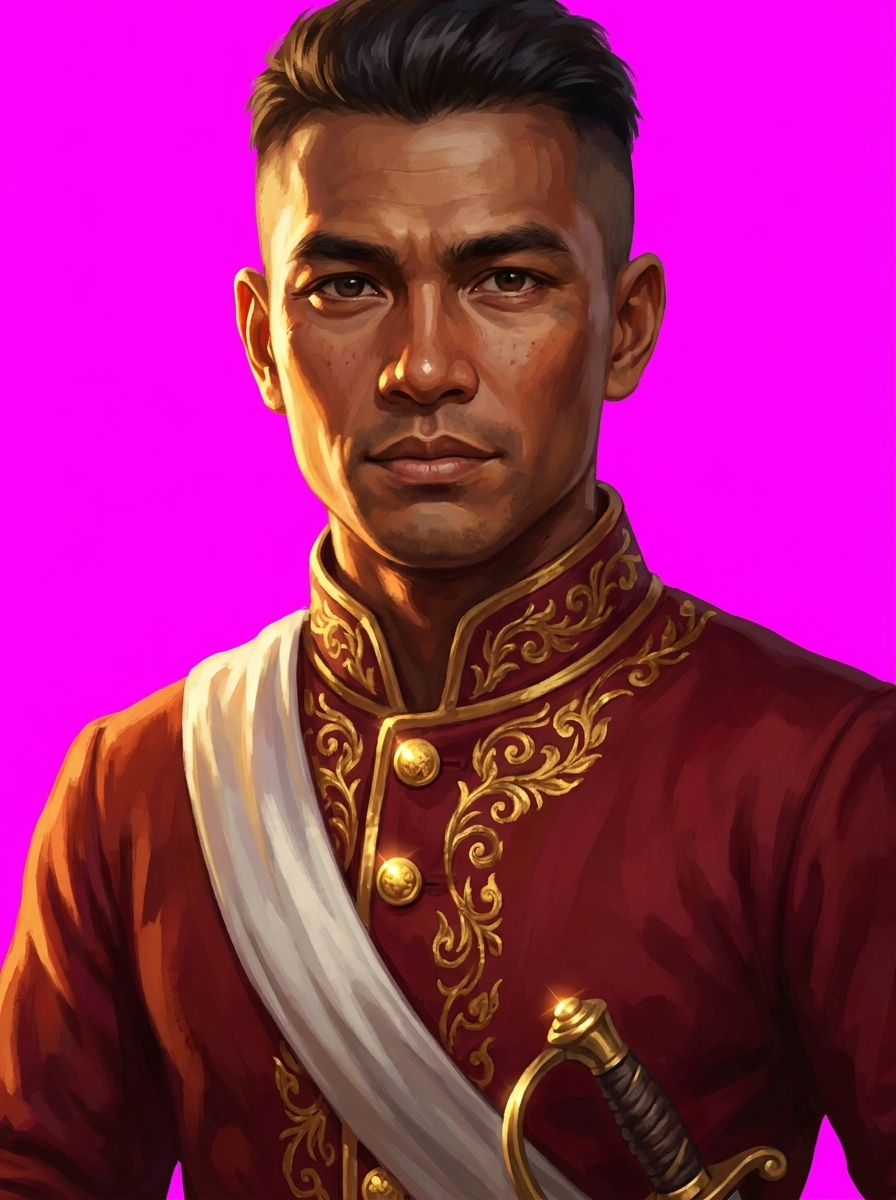
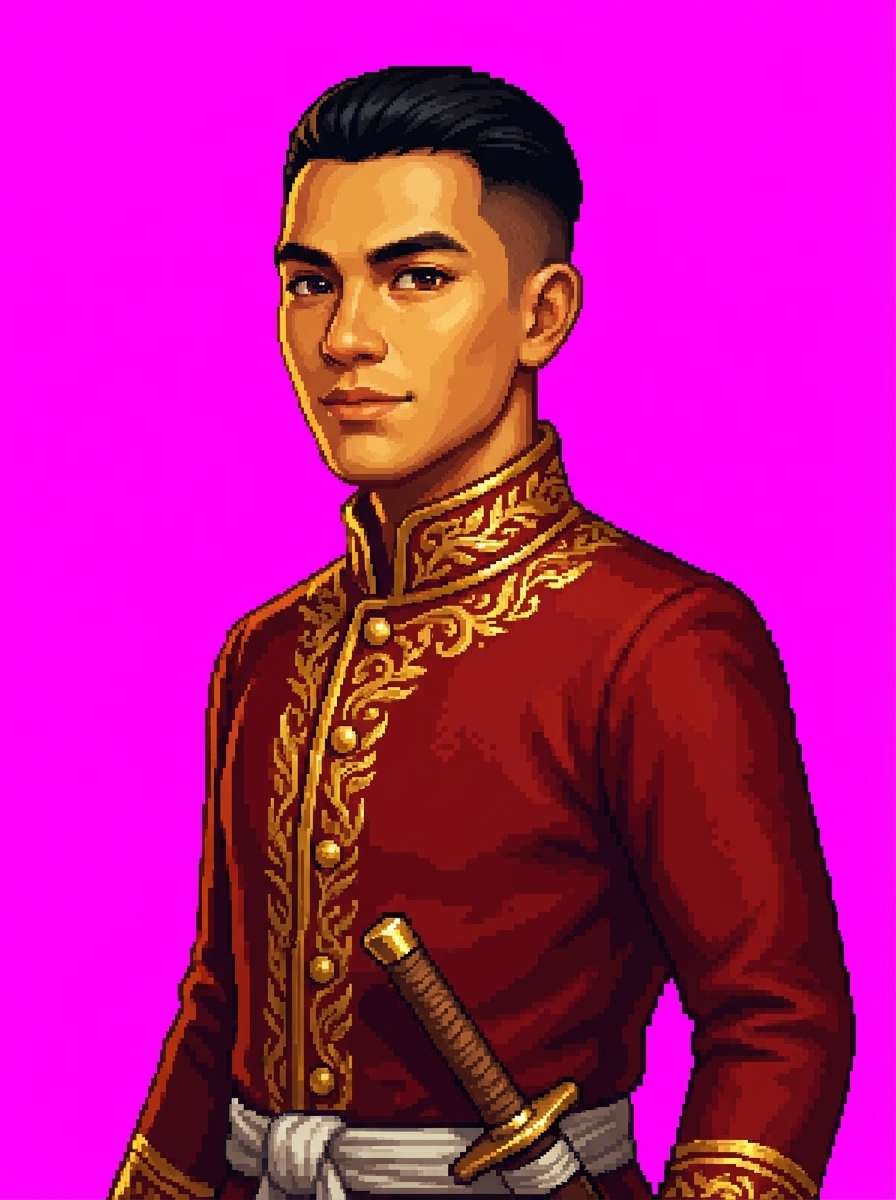
Rebuild the junk with period detail; match the captain's portrait to his sprite
The junk gains:
- planked deck, rails, painted planking with wales and a wet waterline band
- a stern castle with lattice windows and an arched roof, and the rudder and tiller
- a thatched deck shelter, cargo jars and crates, a windlass and a wooden anchor
- cambered lug sails of matting with fanned battens and sheet lines
- soft foam at the waterline

The captain's portrait is regenerated with lighter skin like his sprite, gold
embroidery on the collar and front, and a straight daab hilt. The portrait
cut-out also pulls magenta spill at the edges back toward neutral.

Claude-Session: https://claude.ai/code/session_01GzwHrQ8CtrcQje8D54RJ7B

diff --git a/dist/engine/courtyard-scene.js b/dist/engine/courtyard-scene.js
@@ -101,41 +101,93 @@ export async function createCourtyard(scene){
  // Mooring platform and rope bollards.
  for(let i=0;i<22;i++)box(9.4+i*.22,.03,1,.21,.14,3.2,wood);for(const z of[-.45,2.45])box(11.75,-.12,z,4.8,.16,.16,dark);
  for(const x of[10.8,13.8])for(const z of[-.5,2.5]){mesh(new THREE.CylinderGeometry(.1,.13,1,8),dark,x,.18,z);}
- // The captain's junk, moored along the north side of the landing: a flat-transom hull with a raised stern (toward the
- // bank) and a stern castle, painted sides with the bow eye, two masts with battened lug sails of matting, a red pennant,
- // mooring lines to the bollards, a gangway, and Mae Im's jasmine at the bow.
- {const L=8.6,B=2.5,H=1.25,X=15.2,Z=-2.25,Y=-.23,deck=u=>Y+H/2+1.0*(1-u)**3+.45*u*u;
-  const hullGeo=new THREE.BoxGeometry(L,H,B,24,3,6),pos=hullGeo.attributes.position;
-  for(let i=0;i<pos.count;i++){const x=pos.getX(i),y=pos.getY(i),z=pos.getZ(i),u=x/L+.5,t=y/H+.5,beam=.6+.4*Math.sin(Math.PI*Math.min(1,Math.max(0,u*1.04-.02)))**.5;
-   pos.setXYZ(i,x,y+t*(1.0*(1-u)**3+.45*u*u)+(1-t)*.3*(2*u-1)**2,z*beam*(.5+.5*t));}
+ // The captain's junk, moored along the north side of the landing, after Siamese and Chinese trading junks of the 1680s:
+ // a flat-transom hull with sheer and a painted bow eye, rails, a planked deck, a stern castle with an arched roof over
+ // the transom and rudder, a thatched deck shelter, cargo jars, a windlass and wooden anchor, and unstayed masts with
+ // cambered, battened lug sails of matting whose sheets fan down to the stern. Mae Im's jasmine hangs at the bow.
+ {const L=10,B=2.8,H=1.3,X=15.8,Z=-2.4,Y=-.23,sheer=u=>1.05*(1-u)**3+.5*u*u,deck=u=>Y+H/2+sheer(u),at=u=>X-L/2+u*L;
+  const beam=u=>.6+.4*Math.sin(Math.PI*Math.min(1,Math.max(0,u*1.04-.02)))**.5,half=u=>B/2*beam(u);
+  const hullGeo=new THREE.BoxGeometry(L,H,B,30,4,8),pos=hullGeo.attributes.position;
+  for(let i=0;i<pos.count;i++){const x=pos.getX(i),y=pos.getY(i),z=pos.getZ(i),u=x/L+.5,t=y/H+.5;
+   pos.setXYZ(i,x,y+t*sheer(u)+(1-t)*.3*(2*u-1)**2,z*beam(u)*(.5+.5*t));}
   hullGeo.computeVertexNormals();
-  // Side planking: dark hull, red and cream bands under the rail, the painted eye near the bow. The far side is mirrored.
-  const side=document.createElement('canvas');side.width=512;side.height=64;const c=side.getContext('2d');
-  c.fillStyle='#3d2b1d';c.fillRect(0,0,512,64);c.strokeStyle='#2a1d13';c.lineWidth=1;for(let y=16;y<64;y+=6){c.beginPath();c.moveTo(0,y);c.lineTo(512,y);c.stroke();}
-  c.fillStyle='#8f2a1c';c.fillRect(0,0,512,9);c.fillStyle='#e2d4b0';c.fillRect(0,9,512,3);c.fillStyle='#8f2a1c';c.fillRect(0,12,512,2);
-  c.fillStyle='#efe6cc';c.beginPath();c.ellipse(470,24,14,8,0,0,7);c.fill();c.fillStyle='#16110c';c.beginPath();c.arc(474,24,5,0,7);c.fill();
-  const sideTex=new THREE.CanvasTexture(side);sideTex.colorSpace=THREE.SRGBColorSpace;const farTex=sideTex.clone();farTex.wrapS=THREE.RepeatWrapping;farTex.repeat.x=-1;farTex.needsUpdate=true;
-  const red=mat('#8f2a1c'),hull=mesh(hullGeo,[red,red,mat('#8a6a45'),dark,mat('#ffffff',{map:sideTex}),mat('#ffffff',{map:farTex})],X,Y,Z,true);hull.receiveShadow=true;
-  const at=u=>X-L/2+u*L;
-  // Stern castle with an overhanging roof.
-  box(at(.1),deck(.1)+.35,Z,1.5,.9,1.8,red);box(at(.1),deck(.1)+.86,Z,1.8,.12,2.15,dark);box(at(.1)+.76,deck(.1)+.35,Z,.04,.5,.9,mat('#d9b56b'));
-  // Masts (the foremast raked forward) and battened lug sails, shaped longer aft of the mast as on Siamese junks.
-  // Sails of woven matting (ShapeGeometry UVs are in metres, so the weave tiles once per metre), hoisted part-way at the mooring.
-  const mat2=document.createElement('canvas');mat2.width=mat2.height=32;const w2=mat2.getContext('2d');w2.fillStyle='#b98a55';w2.fillRect(0,0,32,32);
-  for(let i=0;i<32;i+=4){w2.fillStyle=i%8?'#a67646':'#c89a62';w2.fillRect(i,0,2,32);w2.fillStyle='#9b6c3f40';w2.fillRect(0,i+1,32,1);}
-  const weave=new THREE.CanvasTexture(mat2);weave.colorSpace=THREE.SRGBColorSpace;weave.wrapS=weave.wrapT=THREE.RepeatWrapping;weave.magFilter=THREE.NearestFilter;
-  const sail=mat('#ffffff',{map:weave,side:THREE.DoubleSide}),rake=new THREE.CylinderGeometry(.06,.1,5.2,8);rake.rotateZ(-.12);
-  mesh(new THREE.CylinderGeometry(.07,.11,7.6,8),dark,at(.55),deck(.55)+3.8,Z);mesh(rake,dark,at(.86)+.3,deck(.86)+2.6,Z);
-  function lug(mx,base,w,h,scale){const g=new THREE.ShapeGeometry(new THREE.Shape([new THREE.Vector2(-w*.72,0),new THREE.Vector2(w*.28,0),new THREE.Vector2(w*.24,h),new THREE.Vector2(-w*.76,h*.84)]));
-   mesh(g,sail,mx,base,Z+.14);for(let k=0;k<=5;k++){const f=k/5;mesh(new THREE.BoxGeometry(w*(1+.04*f)*1.02,.05*scale,.05),dark,mx-w*.24-w*.02*f,base+h*(k<5?f:.92),Z+.17);}}
-  lug(at(.55),deck(.55)+1.7,3.8,3.3,1);lug(at(.86)+.35,deck(.86)+1.3,2.4,2.3,.8);
-  const pennant=new THREE.ShapeGeometry(new THREE.Shape([new THREE.Vector2(0,0),new THREE.Vector2(-1.1,-.18),new THREE.Vector2(0,-.4)]));mesh(pennant,mat('#b3261c',{side:THREE.DoubleSide}),at(.55),deck(.55)+7.6,Z);
-  // Mooring lines from the rail to the landing's bollards, and the gangway down to the planks.
-  const ropeMat=mat('#8d7650'),up=new THREE.Vector3(0,1,0);
-  for(const[a,b]of[[[at(.2),deck(.2)-.1,Z+1],[10.8,.66,-.5]],[[at(.62),deck(.62)-.1,Z+1.15],[13.8,.66,-.5]]]){const A=new THREE.Vector3(...a),Bv=new THREE.Vector3(...b),g=new THREE.CylinderGeometry(.02,.02,A.distanceTo(Bv),5);g.rotateX(Math.PI/2);g.applyMatrix4(new THREE.Matrix4().lookAt(A,Bv,up));const m=A.clone().add(Bv).multiplyScalar(.5);mesh(g,ropeMat,m.x,m.y,m.z);}
-  const plank=new THREE.BoxGeometry(.6,.06,1.05);plank.rotateX(.62);mesh(plank,wood,at(.3),(deck(.3)+.12)/2,-.78);
+  const paint=(w,h,draw)=>{const c=document.createElement('canvas');c.width=w;c.height=h;draw(c.getContext('2d'),w,h);const t=new THREE.CanvasTexture(c);t.colorSpace=THREE.SRGBColorSpace;t.anisotropy=4;return t;};
+  // Sides: tarred planking with butt joints, two wales, red and cream bands under the rail, the bow eye, and a dark,
+  // weedy wet band at the waterline. The far side is mirrored so the eye is at the bow on both.
+  const sideTex=paint(1024,128,(c,w,h)=>{c.fillStyle='#3a2a1c';c.fillRect(0,0,w,h);let r=1685;const rnd=()=>(r=(r*16807)%2147483647)/2147483647;
+   for(let y=24;y<h;y+=9){c.fillStyle='#2a1d13';c.fillRect(0,y,w,1);for(let x=rnd()*120;x<w;x+=90+rnd()*140)c.fillRect(x,y-8,1,8);c.fillStyle=`rgba(${80+rnd()*30},${58+rnd()*20},${36},.18)`;c.fillRect(0,y+1,w,7);}
+   c.fillStyle='#231810';c.fillRect(0,34,w,5);c.fillRect(0,52,w,4);
+   c.fillStyle='#8f2a1c';c.fillRect(0,0,w,15);c.fillStyle='#e2d4b0';c.fillRect(0,15,w,4);c.fillStyle='#8f2a1c';c.fillRect(0,19,w,3);
+   for(let x=20;x<w;x+=46){c.fillStyle='#d9b56b';c.fillRect(x,5,10,5);}
+   c.fillStyle='#1e2418';c.fillRect(0,62,w,7);c.fillStyle='#2f3b25';for(let x=0;x<w;x+=3)c.fillRect(x,58+rnd()*6,2,4);
+   c.fillStyle='#efe6cc';c.beginPath();c.ellipse(952,38,24,13,0,0,7);c.fill();c.fillStyle='#16110c';c.beginPath();c.arc(958,38,8,0,7);c.fill();c.fillStyle='#8f2a1c';c.lineWidth=3;c.strokeStyle='#8f2a1c';c.beginPath();c.ellipse(952,38,26,15,0,0,7);c.stroke();});
+  const farTex=sideTex.clone();farTex.wrapS=THREE.RepeatWrapping;farTex.repeat.x=-1;farTex.needsUpdate=true;
+  // Deck: planks running fore and aft, worn in the middle.
+  const deckTex=paint(512,128,(c,w,h)=>{c.fillStyle='#8a6a45';c.fillRect(0,0,w,h);let r=7;const rnd=()=>(r=(r*16807)%2147483647)/2147483647;
+   for(let y=0;y<h;y+=8){c.fillStyle=`rgba(${120+rnd()*40},${90+rnd()*30},${55+rnd()*20},.5)`;c.fillRect(0,y,w,7);c.fillStyle='#4d3822';c.fillRect(0,y+7,w,1);for(let x=rnd()*80;x<w;x+=60+rnd()*90)c.fillRect(x,y,1,7);}
+   const g=c.createLinearGradient(0,0,0,h);g.addColorStop(0,'rgba(40,28,16,.35)');g.addColorStop(.5,'rgba(255,240,210,.08)');g.addColorStop(1,'rgba(40,28,16,.35)');c.fillStyle=g;c.fillRect(0,0,w,h);});
+  const red=mat('#8f2a1c'),white=mat('#ffffff',{map:sideTex}),transom=paint(64,64,(c)=>{c.fillStyle='#7d2418';c.fillRect(0,0,64,64);c.fillStyle='#d9b56b';c.fillRect(0,8,64,4);c.fillRect(0,50,64,3);c.strokeStyle='#d9b56b';c.lineWidth=2;c.beginPath();c.arc(32,31,11,0,7);c.stroke();c.beginPath();c.arc(32,31,5,0,7);c.stroke();});
+  const hull=mesh(hullGeo,[mat('#ffffff',{map:transom}),red,mat('#ffffff',{map:deckTex}),dark,white,mat('#ffffff',{map:farTex})],X,Y,Z,true);hull.receiveShadow=true;
+  const tube=(pts,r,m,seg=24)=>mesh(new THREE.TubeGeometry(new THREE.CatmullRomCurve3(pts.map(p=>new THREE.Vector3(...p))),seg,r,5),m,0,0,0);
+  const up=new THREE.Vector3(0,1,0);
+  function line(a,b,r,m){const A=new THREE.Vector3(...a),Bv=new THREE.Vector3(...b),g=new THREE.CylinderGeometry(r,r,A.distanceTo(Bv),5);g.rotateX(Math.PI/2);g.applyMatrix4(new THREE.Matrix4().lookAt(A,Bv,up));const m2=A.clone().add(Bv).multiplyScalar(.5);return mesh(g,m,m2.x,m2.y,m2.z);}
+  // Rails along both sides, on turned posts.
+  const railMat=mat('#5a3a22');
+  for(const side of[-1,1]){const pts=[];for(let k=0;k<=16;k++){const u=.03+k*.94/16;pts.push([at(u),deck(u)+.28,Z+side*(half(u)-.05)]);}tube(pts,.035,railMat,40);
+   for(let k=0;k<=16;k+=2){const u=.03+k*.94/16;mesh(new THREE.BoxGeometry(.06,.3,.06),railMat,at(u),deck(u)+.14,Z+side*(half(u)-.05));}}
+  // Stern castle: panelled walls with lattice windows under an arched roof, a railed gallery, the rudder and its tiller.
+  const castleU=.1,cx=at(castleU),cy=deck(castleU),walls=paint(128,64,(c)=>{c.fillStyle='#7d2a1c';c.fillRect(0,0,128,64);c.fillStyle='#d9b56b';c.fillRect(0,0,128,4);c.fillRect(0,60,128,4);
+   for(const x of[14,52,90]){c.fillStyle='#1c130c';c.fillRect(x,18,24,26);c.strokeStyle='#d9b56b';c.lineWidth=2;c.strokeRect(x,18,24,26);c.beginPath();c.moveTo(x+12,18);c.lineTo(x+12,44);c.moveTo(x,31);c.lineTo(x+24,31);c.stroke();}});
+  mesh(new THREE.BoxGeometry(1.7,1,2.1),mat('#ffffff',{map:walls}),cx,cy+.5,Z);
+  const roofTex=paint(64,64,(c)=>{c.fillStyle='#3b2a1a';c.fillRect(0,0,64,64);for(let x=0;x<64;x+=4){c.fillStyle=x%8?'#4a3522':'#2e2014';c.fillRect(x,0,3,64);}});roofTex.wrapS=roofTex.wrapT=THREE.RepeatWrapping;roofTex.repeat.set(4,2);
+  const roof=new THREE.CylinderGeometry(1.25,1.25,2.1,14,1,true,0,Math.PI);roof.rotateZ(Math.PI/2);roof.scale(1,.45,1);mesh(roof,mat('#ffffff',{map:roofTex,side:THREE.DoubleSide}),cx-.05,cy+1,Z);
+  mesh(new THREE.BoxGeometry(2.1,.08,2.5),dark,cx-.05,cy+1.02,Z);
+  const stern=at(0);mesh(new THREE.BoxGeometry(.08,.34,2.1),railMat,stern-.25,deck(0)+.2,Z);
+  const rudder=new THREE.Shape([new THREE.Vector2(0,0),new THREE.Vector2(-1.1,-.2),new THREE.Vector2(-1.2,-1.4),new THREE.Vector2(-.2,-1.5),new THREE.Vector2(0,-1.2)]);
+  const blade=new THREE.ExtrudeGeometry(rudder,{depth:.1,bevelEnabled:false});blade.translate(0,0,-.05);mesh(blade,dark,stern+.35,deck(0)-.1,Z);
+  mesh(new THREE.CylinderGeometry(.08,.08,2.2,6),dark,stern+.2,deck(0)-.2,Z);line([stern+.2,deck(0)+.8,Z],[cx+1.2,cy+.75,Z],.04,dark);
+  // Thatched shelter amidships over the hatch, on four posts.
+  const thatch=paint(64,64,(c)=>{c.fillStyle='#8c6b3a';c.fillRect(0,0,64,64);let r=3;const rnd=()=>(r=(r*16807)%2147483647)/2147483647;for(let i=0;i<260;i++){c.fillStyle=['#a5824a','#6e5230','#b8935a'][i%3];c.fillRect(rnd()*64,rnd()*64,1,4+rnd()*6);}for(let y=0;y<64;y+=10){c.fillStyle='#5c4428';c.fillRect(0,y,64,1);}});thatch.wrapS=thatch.wrapT=THREE.RepeatWrapping;thatch.repeat.set(3,2);
+  const su=.36,sx=at(su),sy=deck(su);const shelter=new THREE.CylinderGeometry(1.05,1.05,2,14,1,true,0,Math.PI);shelter.rotateZ(Math.PI/2);shelter.scale(1,.55,1);mesh(shelter,mat('#ffffff',{map:thatch,side:THREE.DoubleSide}),sx,sy+.95,Z);
+  for(const dx of[-.9,.9])for(const dz of[-.9,.9])mesh(new THREE.CylinderGeometry(.045,.05,1,6),railMat,sx+dx,sy+.5,Z+dz);
+  mesh(new THREE.BoxGeometry(1.5,.18,1.2),mat('#5d4128'),sx,sy+.09,Z);
+  // Cargo: glazed storage jars, lashed crates and a coil of rope.
+  const jarGeo=new THREE.LatheGeometry([[0,0],[.16,0],[.24,.12],[.27,.3],[.22,.48],[.12,.56],[.13,.62],[0,.62]].map(([x,y])=>new THREE.Vector2(x,y)),12),jarMat=mat('#4a3020',{roughness:.35,metalness:.1});
+  for(const[u,dz]of[[.5,-.7],[.53,-.25],[.5,.55],[.68,.7],[.71,.25]])mesh(jarGeo,jarMat,at(u),deck(u),Z+dz);
+  for(const[u,dz,s2]of[[.62,-.75,.5],[.645,-.72,.4],[.74,-.5,.45]])mesh(new THREE.BoxGeometry(s2,s2*.8,s2),mat('#8a6a40'),at(u),deck(u)+s2*.4,Z+dz);
+  const coil=new THREE.TorusGeometry(.22,.07,6,16);coil.rotateX(Math.PI/2);mesh(coil,mat('#8d7650'),at(.8),deck(.8)+.07,Z+.4);
+  // Windlass and wooden anchor at the bow.
+  const wx=at(.93),wy=deck(.93);const drum=new THREE.CylinderGeometry(.14,.14,1.6,10);drum.rotateX(Math.PI/2);mesh(drum,railMat,wx,wy+.35,Z);for(const dz of[-.85,.85])mesh(new THREE.BoxGeometry(.12,.5,.12),railMat,wx,wy+.25,Z+dz);
+  const bow=at(1);mesh(new THREE.BoxGeometry(.1,1.4,.1),dark,bow+.18,deck(1)-.55,Z+1.05);mesh(new THREE.BoxGeometry(.5,.08,.08),dark,bow+.18,deck(1)-1.2,Z+1.05);line([wx,wy+.35,Z+.7],[bow+.18,deck(1)+.15,Z+1.05],.02,mat('#8d7650'));
+  // Unstayed masts (the foremast raked forward).
+  const mainU=.56,foreU=.86;mesh(new THREE.CylinderGeometry(.08,.13,9,8),dark,at(mainU),deck(mainU)+4.5,Z);
+  const fore=new THREE.CylinderGeometry(.07,.11,6,8);fore.rotateZ(-.12);mesh(fore,dark,at(foreU)+.35,deck(foreU)+3,Z);
+  // Lug sails: a curved sheet of matting between a boom and a yard that peaks aft, the leech bellied outward, and
+  // bamboo battens across it; each second batten's sheet runs down to a block on the stern deck.
+  const weave=paint(64,256,(c,w,h)=>{c.fillStyle='#b98a55';c.fillRect(0,0,w,h);let r=11;const rnd=()=>(r=(r*16807)%2147483647)/2147483647;
+   for(let x=0;x<w;x+=4){c.fillStyle=x%8?'#a8784a':'#c79a62';c.fillRect(x,0,2,h);}for(let y=0;y<h;y+=3){c.fillStyle='rgba(90,60,30,.18)';c.fillRect(0,y,w,1);}
+   for(let k=0;k<7;k++){const y0=h*k/7,g=c.createLinearGradient(0,y0,0,y0+h/7);g.addColorStop(0,'rgba(255,235,190,.16)');g.addColorStop(1,'rgba(50,30,15,.3)');c.fillStyle=g;c.fillRect(0,y0,w,h/7);}
+   for(let i=0;i<14;i++){c.fillStyle=`rgba(70,45,25,${.08+rnd()*.12})`;c.fillRect(rnd()*w,rnd()*h,6+rnd()*14,8+rnd()*20);}});
+  const sailMat=mat('#ffffff',{map:weave,side:THREE.DoubleSide}),spar=mat('#6b5a3a'),sheetMat=mat('#8d7650');
+  function lug(mx,foot,w,h,panels,belly){const F=[w*.28,0],A=[-w*.72,h*.06],Hd=[w*.2,h*.84],P=[-w*.8,h];
+   const point=(u,v)=>{const rx=F[0]+(Hd[0]-F[0])*v,ry=F[1]+(Hd[1]-F[1])*v,lx=A[0]+(P[0]-A[0])*v-w*.12*Math.sin(Math.PI*v),ly=A[1]+(P[1]-A[1])*v;
+    return[mx+rx+(lx-rx)*u,foot+ry+(ly-ry)*u,Z+.16+belly*Math.sin(Math.PI*u)*(.55+.45*Math.sin(Math.PI*v))];};
+   const N=12,M=14,g=new THREE.BufferGeometry(),p=[],uv=[],idx=[];for(let j=0;j<=M;j++)for(let i=0;i<=N;i++){p.push(...point(i/N,j/M));uv.push(i/N,j/M);}
+   for(let j=0;j<M;j++)for(let i=0;i<N;i++){const a2=j*(N+1)+i,b2=a2+1,c2=a2+N+1,d2=c2+1;idx.push(a2,b2,d2,a2,d2,c2);}
+   g.setIndex(idx);g.setAttribute('position',new THREE.Float32BufferAttribute(p,3));g.setAttribute('uv',new THREE.Float32BufferAttribute(uv,2));g.computeVertexNormals();mesh(g,sailMat,0,0,0);
+   for(let k=0;k<=panels;k++){const v=k/panels,pts=[];for(let i=0;i<=6;i++){const q=point(i/6,v);pts.push([q[0],q[1],q[2]+.03]);}tube(pts,k===0||k===panels?.06:.028,k===0||k===panels?spar:dark,12);
+    if(k%2===0&&k<panels){const end=point(1,v);line(end,[at(.2),deck(.2)+.35,Z+.3],.012,sheetMat);}}
+   const head=point(0,1);line([mx,head[1]+.5,Z+.02],[head[0],head[1],head[2]],.02,sheetMat);}
+  lug(at(mainU),deck(mainU)+1.6,4.6,4.2,7,.35);lug(at(foreU)+.45,deck(foreU)+1.3,3,2.9,5,.25);
+  const pennant=new THREE.ShapeGeometry(new THREE.Shape([new THREE.Vector2(0,0),new THREE.Vector2(-1.3,-.2),new THREE.Vector2(0,-.45)]));mesh(pennant,mat('#b3261c',{side:THREE.DoubleSide}),at(mainU),deck(mainU)+9,Z);
+  // Mooring lines to the landing's bollards, and the gangway down to the planks.
+  const ropeMat=mat('#8d7650');for(const[u,bx]of[[.12,10.8],[.4,13.8]])line([at(u),deck(u)+.25,Z+half(u)],[bx,.66,-.5],.022,ropeMat);
+  const gu=(13-at(0))/L,gy=deck(gu),gz=Z+half(gu),len=Math.hypot(gz- -.35,gy-.12),plank=new THREE.BoxGeometry(.62,.06,len);plank.rotateX(Math.atan2(gy-.12,gz- -.35));mesh(plank,wood,13,(gy+.12)/2,(gz-.35)/2);
   // Jasmine for Mae Ya Nang, the boat spirit, tied at the bow.
-  const garland=new THREE.TorusGeometry(.2,.05,6,14);garland.rotateY(Math.PI/2);mesh(garland,mat('#f4f0e2',{emissive:'#403c30'}),at(1)-.08,deck(1)-.12,Z);
+  const garland=new THREE.TorusGeometry(.2,.05,6,14);garland.rotateY(Math.PI/2);mesh(garland,mat('#f4f0e2',{emissive:'#403c30'}),bow-.05,deck(1)+.2,Z);
+  // Foam where the hull meets the water.
+  const foam=paint(256,64,(c,w,h)=>{c.clearRect(0,0,w,h);c.filter='blur(3px)';c.strokeStyle='rgba(255,255,255,.7)';c.lineWidth=5;c.beginPath();c.roundRect(14,12,w-28,h-24,20);c.stroke();});
+  const ring=new THREE.Mesh(new THREE.PlaneGeometry(L+.5,B+.5),new THREE.MeshBasicMaterial({map:foam,transparent:true,opacity:.22,depthWrite:false}));ring.rotation.x=-Math.PI/2;ring.position.set(X,-.272,Z);scene.add(ring);
  }
  // Lush canopy texture is original canvas artwork, instanced as crossed leaf clusters.
  const leafCanvas=document.createElement('canvas');leafCanvas.width=leafCanvas.height=128;const ctx=leafCanvas.getContext('2d');

diff --git a/scripts/gemini-layered.py b/scripts/gemini-layered.py
@@ -23,9 +23,11 @@ SETTING = 'Ayutthaya, Siam, in the 1680s; period-appropriate and respectful.'
 
 CHARACTERS = {
     'captain': ('captain-south',
-                'The Thai captain, a young Siamese sea captain of the Phra Khlang\'s royal trade fleet in his mid twenties: mahadthai haircut '
-                '(short on top, shaved sides), deep red fitted jacket with gold buttons, white sash, a sword hilt at the hip; determined, kind, '
-                'weathered by the sea.'),
+                'The Thai captain, a young Siamese sea captain of the Phra Khlang\'s royal trade fleet in his mid twenties: light warm '
+                'golden-tan skin, as light as in the sprite (not dark), face well lit, clean-shaven, black mahadthai haircut (short on top, '
+                'shaved sides), deep red fitted jacket with a high collar, rich gold embroidery on the collar and down the front opening, '
+                'gold buttons and gold trim at the cuffs, a white sash, the straight cord-wrapped wooden hilt of a Siamese daab '
+                'sword at the hip (no knuckle guard, not a European sabre); determined and kind.'),
     'innkeeper': ('innkeeper-south',
                   'Mae Im, a young Siamese woman in her early twenties who keeps a riverside lodge: youthful, lively face with a '
                   'playful smile, bright dark eyes, short black hair cropped in the Ayutthaya style, small gold earrings, green '
@@ -92,7 +94,8 @@ def cutout(img, size):
     for y in range(cut.height):
         for x in range(cut.width):
             r, g, b, a = px[x, y]
-            if a and r > g * 1.35 and b > g * 1.35: px[x, y] = (g, g, g, a) if abs(r - b) < 40 else (r, g, b, a)
+            # Magenta spill (red and blue both well above green) is pulled back toward the pixel's green level.
+            if a and r > g * 1.25 and b > g * 1.25: px[x, y] = (min(r, round(g * 1.15)), g, min(b, round(g * 1.1)), a)
     return cut
 
 def character(cid):

diff --git a/docs/engine/COURTYARD.md b/docs/engine/COURTYARD.md
@@ -42,7 +42,13 @@ Text in `OPENING` (`dist/data/narai-story.js`, EN/TH); rules in `courtyard-state
 4. **return**: the report, and a choice of how to tell the Phra Khlang: plainly (`tell`) or gently (`hope`). The choice is saved for later chapters.
 5. **complete**: the marker points to the junk at the end of the landing; the helmsman asks "The tide is turning. Do we go aboard?" and boarding opens the sailing game.
 
-The moored junk is built in code (`courtyard-scene.js`): a flat-transom hull with sheer and a painted bow eye, a stern castle, two masts with battened lug sails of matting, a red pennant, mooring lines, a gangway and Mae Im's jasmine at the bow.
+The moored junk is built in code (`courtyard-scene.js`), after Siamese and Chinese trading junks of the 1680s:
+- **Hull:** a flat-transom hull with sheer and canvas-painted planking, wales, a painted bow eye and a dark wet band at the waterline, with rails along both sides and a planked deck.
+- **Stern:** a castle with lattice windows under an arched roof, a railed gallery, the rudder and its tiller.
+- **On deck:** a thatched shelter amidships, glazed cargo jars, crates, a rope coil, a windlass and a wooden anchor.
+- **Rig:** unstayed masts with cambered lug sails of matting between a boom and a yard. Bamboo battens run across the sails, and their sheets fan down to the stern.
+- **Mooring:** lines to the landing's bollards and a gangway.
+- **Details:** soft foam where the hull meets the water, and Mae Im's jasmine at the bow.
 
 Cutscene steps (`pause`, `walkTo`, `line`) are awaitable and driven by the frame loop; skipping resolves them all and applies the end state. Special-event animations play through `actors.play(id, action)`, only when the character faces the direction the frames were drawn for.
 

diff --git a/art/portraits/README.md b/art/portraits/README.md
@@ -17,4 +17,9 @@ Mae Im was then redone in a pixel-painted style at the user's request. The style
 
 All three courtyard speakers (Khun Phithak Wari, Tan Heng, Mae Im) now use layered portraits, so the style no longer jumps between speakers. One colour grade, matched to the courtyard scene, is applied to every cut-out and backdrop (`grade()` in the script): slightly muted saturation, olive shadows and warm highlights, with backdrops darker and softer than characters. Each cut-out also has a dusk variant (`<id>-evening.png`): dimmer, cooler shadows and warm highlights. The dialogue box picks the variant that matches the scene's time of day. The earlier smooth painted atlas (`siam-portraits.jpg`) is now only a fallback.
 
-The captain has a layered portrait too (`captain.png` and `captain-evening.png`), for his lines in the opening cutscene. His sword hilt came out European in style; a Siamese *daab* hilt would be more accurate if the portrait is regenerated.
+The captain has a layered portrait too (`captain.png` and `captain-evening.png`), for his lines in the opening cutscene. It was regenerated after playtesting:
+- lighter skin to match his sprite
+- gold embroidery on the collar and front, gold buttons and cuff trim
+- a straight, cord-wrapped *daab* hilt in place of a European-style sabre
+
+The cut-out's edge clean-up now pulls any magenta spill back toward neutral.
